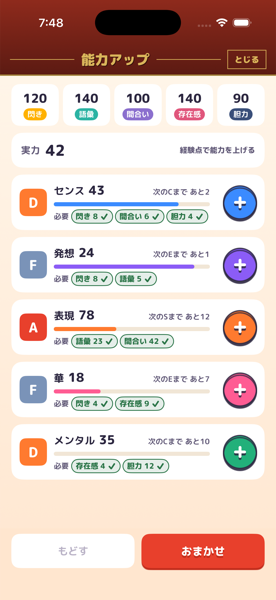
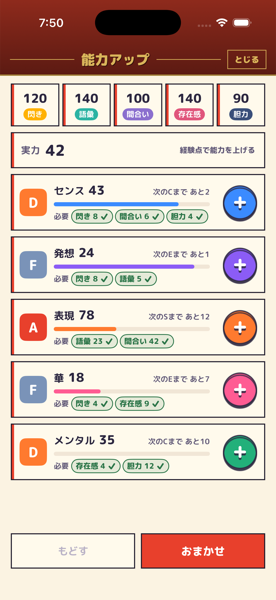
docs: 統合ブランチの残り3点（能力アップの罫線パネル・地色の統一）済のスクショ

Changed region(s): [[0.029, 0.12, 0.9855, 0.81], [0.029, 0.87, 0.9855, 0.96], [0.1449, 0.03, 0.2319, 0.06]]

diff --git a/docs/proposal_ui_overhaul_all_v0.md b/docs/proposal_ui_overhaul_all_v0.md
@@ -31,3 +31,9 @@ fda314d 提案q65: 能力アップ画面の見やすさ（押せる＋/押せな
 
 ## §4 スクショ
 docs/proposal_shots/all_week / all_allocate / all_neta / all_event / all_settings / all_result .png
+
+## §5 残りの項目の対応（済）
+- 済 能力アップのカード本体を罫線パネル（生成り面＋墨の罫＋朱の左帯・Theme/AbilityUpView の mzPanel）に。
+- 済 イベント画面の下半分の無地ピンクを生成りの地に。
+- 済 画面の地の決まり＝生成り（Theme.kinari）＋上部の臙脂の帯。週メイン・能力アップ・ネタ帳・設定・イベント・年間結果に適用（旧 bgGradient は導入・舞台系の画面に残る）。
+- 撮り直し: all_week / all_allocate / all_neta / all_event。GameCore 124 tests green。
